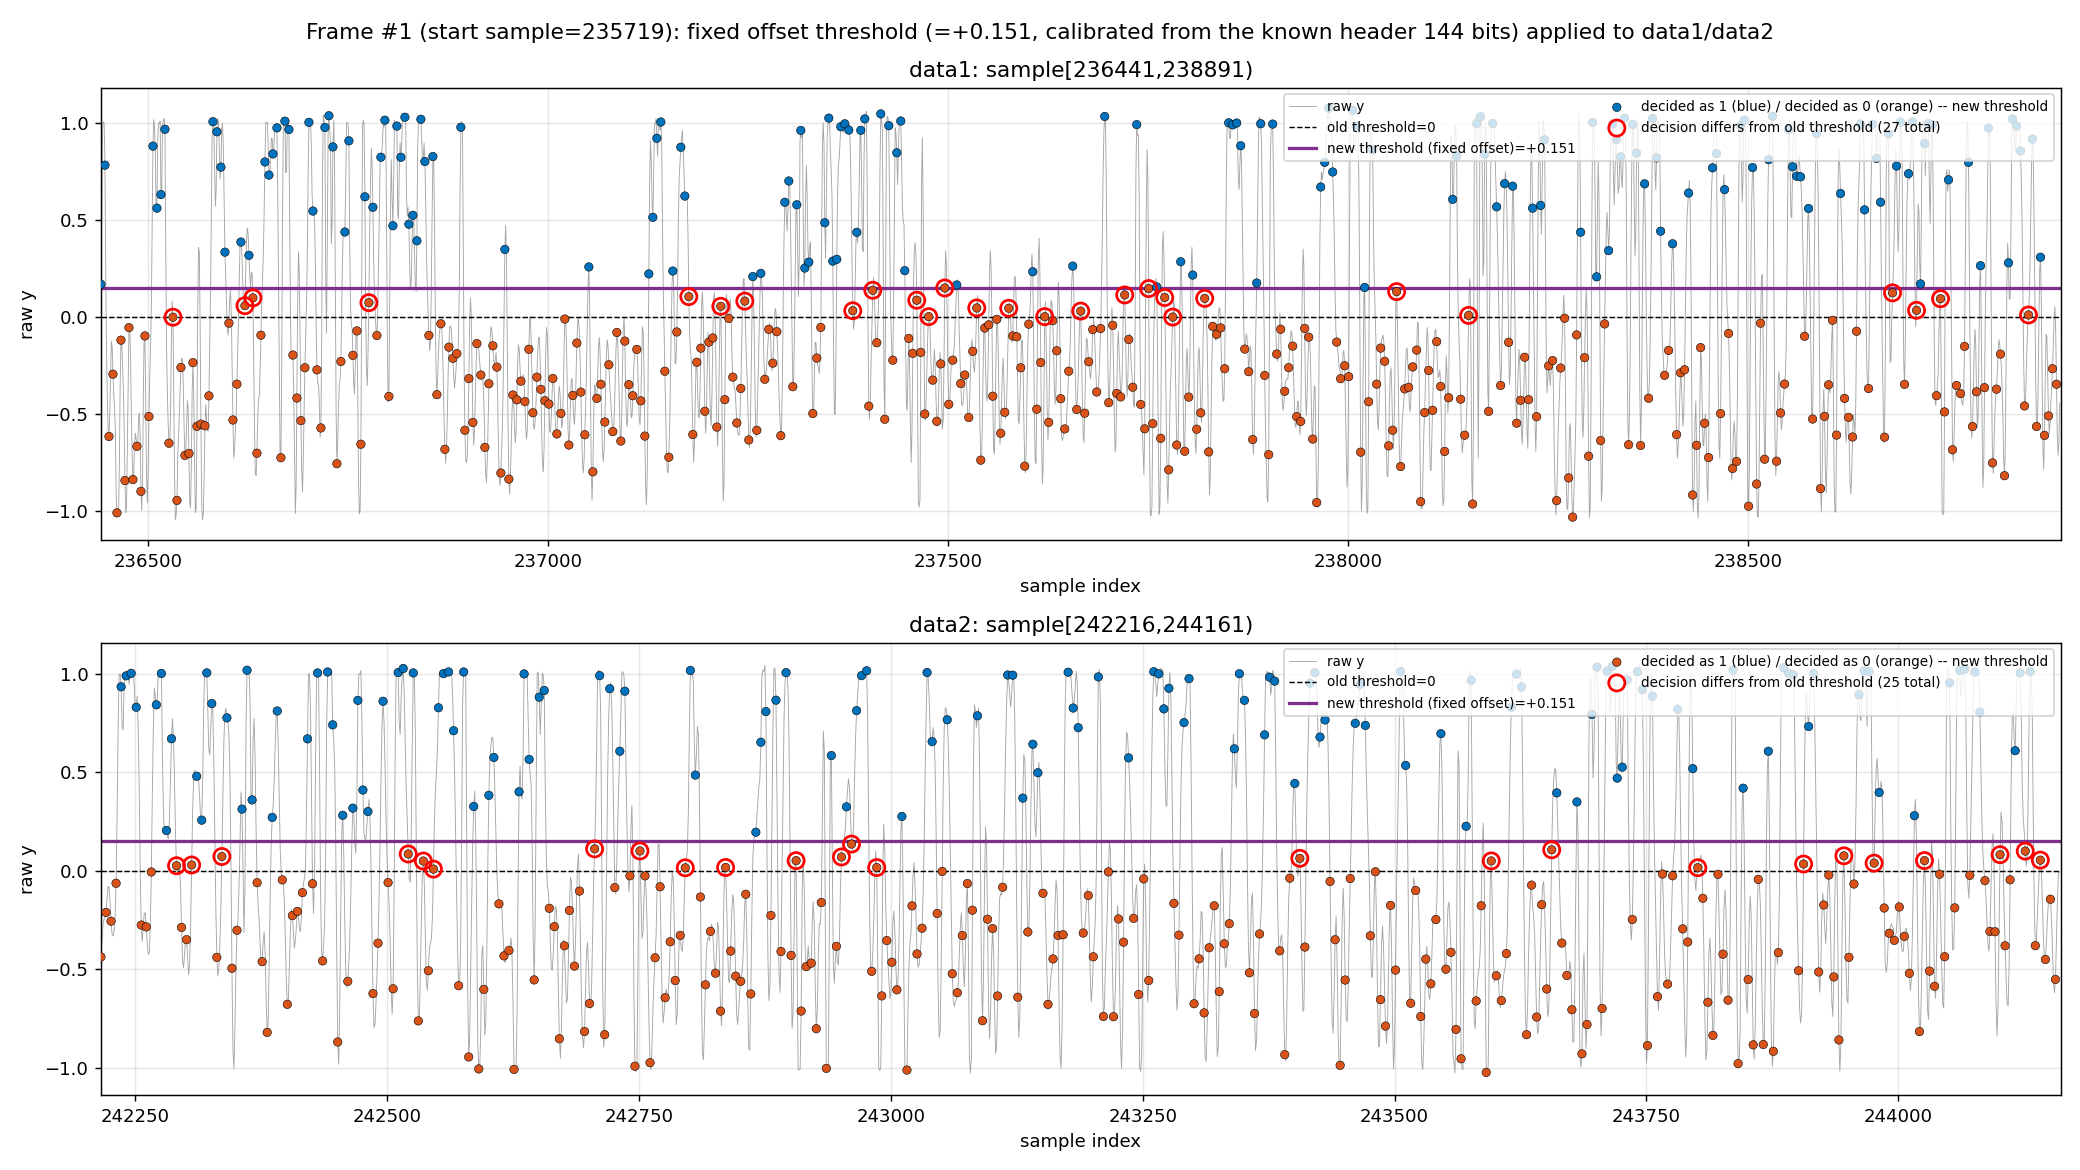
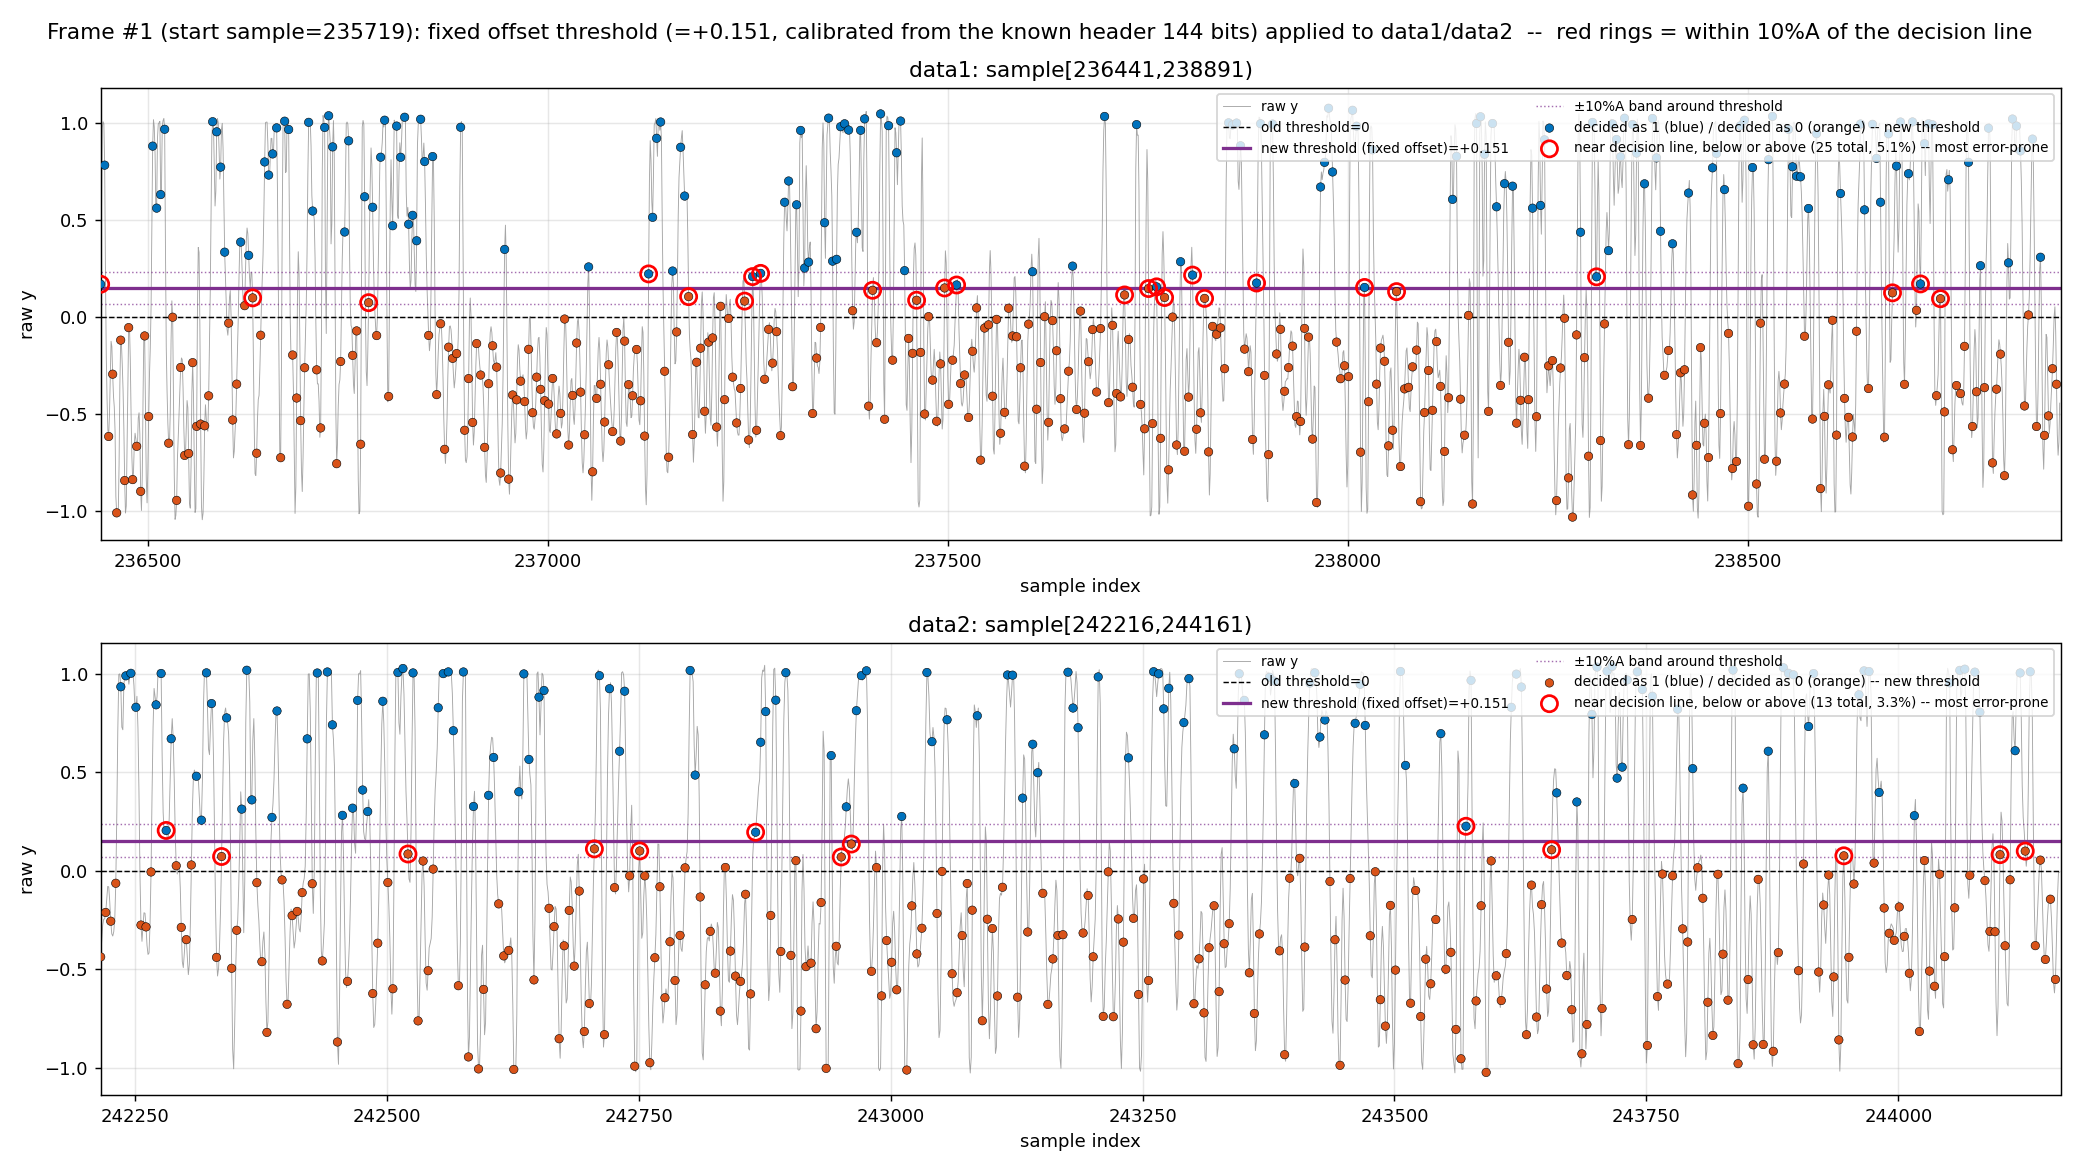
Add GNU Radio migration proposal; mark near-threshold bits symmetrically in 03b
- GNURADIO_MIGRATION.md: draft flowgraph forking frame processing by segment
  type (data vs. zero-run) after frame_detector, merged back before
  hdlc_deframer; FCS routed with the data segments rather than passed
  through raw.
- 03b_data_fixed_offset_threshold.py: ring every symbol within +/-10%A of the
  decision line on both sides, not just the strip between the old (=0) and
  new thresholds, which was blind to low-confidence symbols landing above
  the new threshold. README updated to match, regenerated the 3 figures.

diff --git a/03_data_segment_processing/03b_data_fixed_offset_threshold.py b/03_data_segment_processing/03b_data_fixed_offset_threshold.py
@@ -24,6 +24,12 @@ README). Once each frame's start is found:
      line and the resulting decisions on the plot -- no BER is computed
      (the data content changes frame to frame, so comparing against the
      reference frame wouldn't be meaningful).
+  4. Mark every symbol sitting within MARGIN_FRAC*A of the decision line
+     (both below AND above threshold, not just the strip between the old
+     threshold=0 and the new offset threshold) -- these are the most
+     error-prone, lowest-confidence candidates regardless of which exact
+     threshold turns out to be right (see the folder README's "Key
+     findings").
 """
 
 import os
@@ -53,6 +59,9 @@ HEADER_ADDR = bytes.fromhex("849c6086aa4060849c60a686b0e1")   # Dest+Src address
 Z_THRESHOLD = 12.0        # frame detection threshold (see 01_frame_detection.py)
 MIN_FRAME_GAP = 100_000
 SEARCH_SAMPLES = 19211    # search range covering the header through the trailing flags (relative to frame start)
+MARGIN_FRAC = 0.10        # "close to the decision line" half-band, as a fraction of A=median(|y|);
+                          # symmetric on both sides of the threshold -- a symbol is flagged if
+                          # |y[n] - threshold| <= MARGIN_FRAC*A, whether it landed above or below
 
 REF_ROWS = (
     "849c6086aa4060849c60a686b0e103f0"
@@ -198,11 +207,16 @@ def get_data_segments(y, start):
 
 
 def plot_frame(plt, y, start, frame_no, z_score, data_segs, offset_thr, hdr_err):
+    A = np.median(np.abs(y))
+    margin = MARGIN_FRAC * A
+
     print("=" * 78)
     print(f"[Frame #{frame_no}] start sample={start}  z-score={z_score:.2f}")
     print("=" * 78)
     print(f"Best fixed threshold re-scanned from header+address = {offset_thr:+.4f}"
           f" (header 144-bit error count={hdr_err})")
+    print(f"A = {A:.4f}   near-decision-line margin = {MARGIN_FRAC*100:.0f}%A = {margin:.4f}"
+          f"  -> band = [{offset_thr-margin:+.4f}, {offset_thr+margin:+.4f}]")
 
     fig, axes = plt.subplots(2, 1, figsize=(16, 9))
     for ax, (name, s0, s1) in zip(axes, data_segs):
@@ -213,25 +227,30 @@ def plot_frame(plt, y, start, frame_no, z_score, data_segs, offset_thr, hdr_err)
         bits_fixed0 = (y_sym > 0).astype(np.uint8)
         bits_offset = (y_sym > offset_thr).astype(np.uint8)
         n_diff = (bits_fixed0 != bits_offset).sum()
+        near = np.abs(y_sym - offset_thr) <= margin   # symmetric: below AND above the threshold
         print(f"\n{name}: sample[{s0},{s1})  {j1-j0} symbols  "
               f"threshold-0 vs threshold-{offset_thr:+.3f}: symbols with a different decision = {n_diff} "
-              f"({100*n_diff/(j1-j0):.1f}%)")
+              f"({100*n_diff/(j1-j0):.1f}%)  |  near decision line (|y-threshold|<={margin:.3f}) = "
+              f"{near.sum()} ({100*near.sum()/(j1-j0):.1f}%)")
 
         xs_sample = np.arange(s0, s1)
         ax.plot(xs_sample, y[s0:s1], "-", color=GRAY, lw=0.5, alpha=0.7, label="raw y")
         ax.axhline(0, color="k", lw=0.8, ls="--", label="old threshold=0")
         ax.axhline(offset_thr, color=PURPLE, lw=1.8,
                   label=f"new threshold (fixed offset)={offset_thr:+.3f}")
+        ax.axhline(offset_thr - margin, color=PURPLE, lw=0.8, ls=":", alpha=0.7,
+                  label=f"±{MARGIN_FRAC*100:.0f}%A band around threshold")
+        ax.axhline(offset_thr + margin, color=PURPLE, lw=0.8, ls=":", alpha=0.7)
 
         xs_sym = idx_sym
         colors = [BLUE if b == 1 else ORANGE for b in bits_offset]
         ax.scatter(xs_sym, y_sym, c=colors, s=22, zorder=4, edgecolors="k", linewidths=0.3,
                   label="decided as 1 (blue) / decided as 0 (orange) -- new threshold")
-        changed = bits_fixed0 != bits_offset
-        if changed.any():
-            ax.scatter(xs_sym[changed], y_sym[changed], s=80, facecolors="none",
+        if near.any():
+            ax.scatter(xs_sym[near], y_sym[near], s=80, facecolors="none",
                       edgecolors="red", linewidths=1.5, zorder=5,
-                      label=f"decision differs from old threshold ({changed.sum()} total)")
+                      label=f"near decision line, below or above ({near.sum()} total, "
+                            f"{100*near.sum()/(j1-j0):.1f}%) -- most error-prone")
 
         ax.set_xlim(s0, s1)
         ax.set_xlabel("sample index")
@@ -240,7 +259,8 @@ def plot_frame(plt, y, start, frame_no, z_score, data_segs, offset_thr, hdr_err)
         ax.legend(loc="upper right", fontsize=7.5, ncol=2)
 
     fig.suptitle(f"Frame #{frame_no} (start sample={start}): fixed offset threshold"
-                 f" (={offset_thr:+.3f}, calibrated from the known header 144 bits) applied to data1/data2")
+                 f" (={offset_thr:+.3f}, calibrated from the known header 144 bits) applied to data1/data2"
+                 f"  --  red rings = within {MARGIN_FRAC*100:.0f}%A of the decision line")
     p = save(fig, os.path.join("Figure", f"03b_frame{frame_no}.png"))
     plt.close(fig)
     print(f"\nFigure saved: {p}")

diff --git a/GNURADIO_MIGRATION.md b/GNURADIO_MIGRATION.md
@@ -1,0 +1,113 @@
+# GNU Radio Migration Proposal (Draft v2) — forked by segment type
+
+> **Status: draft for review, not implemented.** Proposes one way to move the `scionx/`
+> diagnostic pipeline (see the main [README.md](README.md)) into a GNU Radio Companion (GRC)
+> flowgraph, once a decision method for the data/zero-run segments is settled.
+
+## Why this shape
+
+GNU Radio's stream abstraction is built for continuous, per-sample, real-time processing.
+Two of the three diagnostic folders in this repo are exactly that kind of thing — but the
+middle one isn't:
+
+- `01_frame_detection/`'s normalized cross-correlation needs to see a whole candidate window
+  before it can decide anything — not a per-sample operation.
+- `scionx/baseline.py`'s `restore_baseline` re-scans a whole ~2001-sample window, seven times,
+  per frame — an iterative, whole-buffer algorithm, not a causal filter.
+- `02_zero_run_baseline/` and `03_data_segment_processing/` each apply a *different* decision
+  method, to a *different* subset of the frame's bytes. FCS (the 2-byte CRC) rides along with
+  the data segments rather than getting its own pass-through: its bits look like arbitrary
+  signal content, not the all-zero padding `zero_run_processor` is tuned for, so
+  `data_segment_processor`'s asymmetry-corrected threshold is the better fit for it too.
+
+So instead of forcing everything into per-sample streaming blocks, the flowgraph below brackets
+the frame-level diagnostic work off as a **per-frame message/PDU stage**, sandwiched between a
+real-time streaming front end and a real-time streaming back end (`hdlc_deframer`, CRC).
+Inside that message stage, the frame is **forked by segment type** — data segments go to the
+processor built for them, zero-run segments go to the processor built for them — then merged
+back into one ordered bit stream before CRC.
+
+## Flowgraph
+
+```mermaid
+flowchart TD
+    subgraph ROW1["① Streaming domain — continuous, real-time"]
+        A["wavfile_source<br/><small>Fs=48000, cut_first3.wav</small>"]
+        B["low_pass_filter<br/><small>band-limit</small>"]
+        C["symbol_sync<br/><small>Gardner/M&amp;M TED, osps=1</small>"]
+        D["frame_detector<br/><small>normalized xcorr vs. flag/preamble<br/>ports 01_frame_detection; adds tags</small>"]
+        E["tagged_stream_to_pdu<br/><small>stream → PDU bridge</small>"]
+        A --> B --> C --> D --> E
+    end
+
+    subgraph ROW2["② Message/PDU domain — forked by segment type, then merged"]
+        F["segment_splitter<br/><small>fixed byte-offset map from 01_frame_detection:<br/>address 0–13 / data1 14–74 / zero-run1 75–157<br/>/ data2 158–205 / zero-run2 206–271 / FCS 272–273</small>"]
+        G["data_segment_processor<br/><small>wraps 03_data_segment_processing:<br/>fixed-offset threshold, calibrated<br/>from this frame's own known header bits</small>"]
+        H["zero_run_processor<br/><small>wraps 02_zero_run_baseline:<br/>decision-directed restore + isolated-1<br/>flagging, zero-run1 ⊕ zero-run2 pooled</small>"]
+        I["segment_merger<br/><small>new — reassembles address+data1+zr1<br/>+data2+zr2+FCS, original byte order</small>"]
+        F -- "data1+data2+FCS" --> G
+        F -- "zero-run1+zero-run2" --> H
+        F -. "address+ctrl+PID (known) — pass-through" .-> I
+        G -- "decided bits" --> I
+        H -- "decided bits" --> I
+    end
+
+    subgraph ROW3["③ Streaming domain — bit-level destuffing + CRC"]
+        J["pdu_to_tagged_stream<br/><small>PDU → stream bridge</small>"]
+        K["hdlc_deframer<br/><small>gr-satellites<br/>flag detect + destuff + CRC-16/X.25</small>"]
+        L["message_debug / file_sink<br/><small>decoded AX.25 frames, CRC-pass only</small>"]
+        J --> K --> L
+    end
+
+    E --> F
+    I --> J
+
+    M["qt_gui_time_sink<br/><small>raw baseband</small>"]
+    N["qt_gui_time_sink<br/><small>symbol-rate signal</small>"]
+    O["frame_plotter<br/><small>reassembled bits + per-segment overlay<br/>mirrors 02_/03_ PNG figures</small>"]
+    B -.-> M
+    C -.-> N
+    I -.-> O
+
+    classDef nativeGR fill:#DCE9F5,stroke:#2B6CB5,color:#1C4A78;
+    classDef satellites fill:#DCF0E7,stroke:#2F8F6F,color:#1E5F49;
+    classDef custom fill:#FBE9D4,stroke:#C4741A,color:#8A4E10;
+    classDef viz fill:#EEEDF2,stroke:#7B7B8C,stroke-dasharray: 4 3,color:#4B4B5A;
+
+    class A,B,C,E,J,L nativeGR
+    class D,F,G,H,I custom
+    class K satellites
+    class M,N,O viz
+```
+
+**Legend**: blue = stock GNU Radio block, unmodified · green = `gr-satellites` (already used) ·
+amber = custom Python block that reuses `scionx/*.py` numpy code as-is · grey dashed =
+visualization/debug sink, not on the decode path · solid arrow = stream connection
+(continuous) · dashed arrow = message/PDU connection (one shot per frame).
+
+## Block reference
+
+| Block | Kind | Role |
+|---|---|---|
+| `wavfile_source` | native GR | Reads `cut_first3.wav` (pre-converted once from `.ogg`), Fs=48000 Hz |
+| `low_pass_filter` | native GR | Band-limits before timing recovery |
+| `symbol_sync` | native GR | Gardner/M&M TED, `osps=1` — replaces the current fixed `PHASE`/`SPS` sampling (see README "Possible future updates") |
+| `frame_detector` | custom | Ports `01_frame_detection/`'s normalized cross-correlation; on detection, tags `frame_start`/`frame_len` |
+| `tagged_stream_to_pdu` | native GR | Buffers samples between tags into one PDU per detected frame |
+| `segment_splitter` | custom | Applies the fixed byte-offset segment map (same one `01_frame_detection/` derives from `REFERENCE_FRAME.md`) to route each span; address is the only span still passed straight through |
+| `data_segment_processor` | custom | Wraps `03_data_segment_processing/`'s fixed-offset threshold + asymmetry check; also carries the FCS bytes (272–273), treated as data rather than pass-through |
+| `zero_run_processor` | custom | Wraps `02_zero_run_baseline/`'s decision-directed baseline restoration + isolated-1 flagging (zero-run1/zero-run2 pooled, as the current script does) |
+| `segment_merger` | custom, new | The one genuinely new piece — reassembles all spans into one bit stream in original byte order |
+| `pdu_to_tagged_stream` | native GR | Converts the merged decided-bit PDU back into a bit stream |
+| `hdlc_deframer` | gr-satellites | Real flag detection + bit-destuffing + CRC-16/X.25 (existing OOT module) |
+| `message_debug` / `file_sink` | native GR | Emits only when a frame passes CRC |
+| `qt_gui_time_sink` ×2, `frame_plotter` | viz/debug | Live inspection taps; `frame_plotter` mirrors the current `02_`/`03_` static PNG figures |
+
+## Open question
+
+The fork in `segment_splitter` runs on a **fixed** byte-offset map, derived once from
+`REFERENCE_FRAME.md`'s ground-test frame. That's valid only if every frame from this satellite
+keeps telemetry fields at the same byte positions. If the layout ever shifts between frames,
+`segment_splitter` would silently route bytes to the wrong processor *before* either
+`data_segment_processor` or `zero_run_processor` gets a chance to run — worth confirming this
+assumption holds across more than the 2–3 frames currently on hand.

diff --git a/03_data_segment_processing/README.md b/03_data_segment_processing/README.md
@@ -13,7 +13,7 @@ the header to data1/data2, presented via two scripts:
 | Script | Content | Output |
 |---|---|---|
 | `03a_data_asymmetry_check.py` | Shows the asymmetry itself: per-point color coding + each group's local moving average, to see whether the asymmetry drifts slowly with position | `Figure/03a_frame1.png`, `03a_frame2.png`, `03a_frame3.png` |
-| `03b_data_fixed_offset_threshold.py` | Applies the calibrated fixed offset threshold to data1/data2, overlaying the decision line, and compares how much it differs from the old threshold (=0) | `Figure/03b_frame1.png`, `03b_frame2.png`, `03b_frame3.png` |
+| `03b_data_fixed_offset_threshold.py` | Applies the calibrated fixed offset threshold to data1/data2, overlaying the decision line, and rings every symbol sitting close to that line -- below **or** above it | `Figure/03b_frame1.png`, `03b_frame2.png`, `03b_frame3.png` |
 
 Both scripts' frame detection uses the same method as
 [`01_frame_detection/`](../01_frame_detection/) (normalized
@@ -43,6 +43,8 @@ analysis both use raw y only.
 | $\theta^*$ | the calibrated, best fixed offset threshold |
 | $y[n]$ | symbol $n$'s center signal value within data1/data2 |
 | $\hat b[n]$ | the data segment's decision result (0 or 1; ★ this is a threshold decision, not ground truth) |
+| $A$ | amplitude estimate, $A=\mathrm{median}(\lvert Y\rvert)$ (over the whole recording) |
+| $m$ | "near the decision line" half-band, $m = \text{MARGIN\_FRAC}\cdot A$ (default $\text{MARGIN\_FRAC}=0.10$, i.e. $\pm 10\%A$) |
 
 ### 1. Frame detection
 
@@ -66,7 +68,7 @@ v_1)]$, and take the one with the fewest errors as the best fixed offset
 threshold:
 
 $$
-\theta^* = \arg\min_{\theta}\ \Big(\ \#\{x\in v_1 \mid x \le \theta\}\ +\ \#\{x\in v_0 \mid x > \theta\}\ \Big)
+\theta^* = \arg\min_{\theta}\ \Big(\ \bigl|\{x\in v_1 \mid x \le \theta\}\bigr|\ +\ \bigl|\{x\in v_0 \mid x > \theta\}\bigr|\ \Big)
 $$
 
 This threshold is re-calibrated from this frame's **own** header, not
@@ -96,14 +98,28 @@ $\hat b[n]$; (2) each group's local moving average (the window is counted
 in "points within the group"), to see whether the two groups' means drift
 slowly with position within the segment.
 
-### 4b. Apply the decision line (`03b`)
+### 4b. Apply the decision line, and flag the low-confidence symbols (`03b`)
 
 Draw the same $\theta^*$ directly as a decision line over the raw waveform,
-while also keeping the old threshold's (=0) decision results for
-comparison, marking which symbols' decisions change because of the new
-threshold. No bit error rate is computed -- the data segments' content
-changes frame to frame, so there's no reliable ground truth to compare
-against.
+keeping the old threshold's (=0) line for reference. Then ring every symbol
+whose distance to $\theta^*$ falls inside a symmetric half-band, **on either
+side**:
+
+$$
+\bigl|\,y[n]-\theta^*\,\bigr| \le m
+$$
+
+This is a different (and broader) set than "symbols whose decision changed
+between $\theta=0$ and $\theta=\theta^*$": that comparison only catches
+symbols sitting in the strip between the two threshold values, so it misses
+low-confidence symbols that land just *above* $\theta^*$ -- those never
+disagreed with the old threshold, but they're just as close to the current
+decision line. Ringing $\lvert y[n]-\theta^*\rvert \le m$ instead catches
+both sides symmetrically, matching the "Possible future updates" idea in the
+main README of identifying the bits closest to the decision line as the most
+error-prone candidates. No bit error rate is computed -- the data segments'
+content changes frame to frame, so there's no reliable ground truth to
+compare against.
 
 ## Key findings
 
@@ -124,6 +140,13 @@ against.
   pushes the "decided as 0" group's mean further from -A (see 03a's output),
   but there's no CRC or other independent verification confirming whether
   this actually improves accuracy.
+- **The symmetric near-decision-line band (±10%A around $\theta^*$) flags a
+  similar-sized but not identical group**: roughly 1.6-6.7% of data1/data2's
+  symbols per segment, across the three frames -- including some that sit
+  just *above* $\theta^*$ and therefore never showed up in the old-vs-new
+  comparison at all. These are the natural starting point for the "check
+  against an actually-decoded frame" direction in the main README, since
+  they're low-confidence independent of which exact threshold is correct.
 
 ## How to run
 
